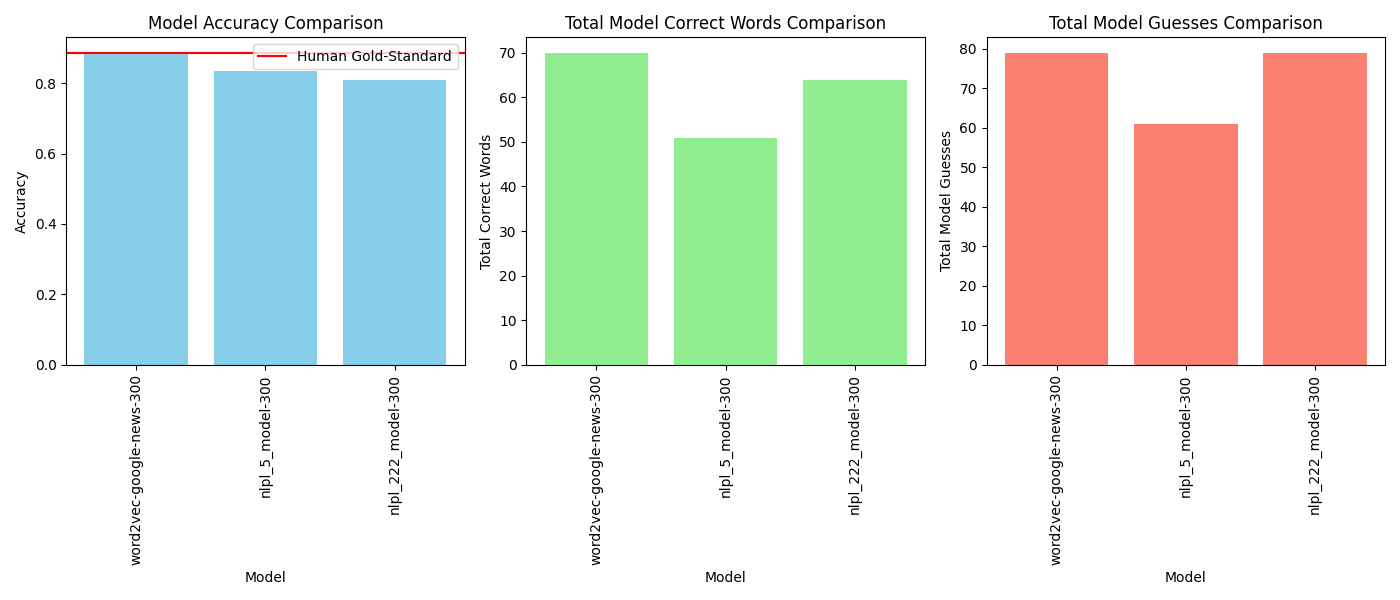
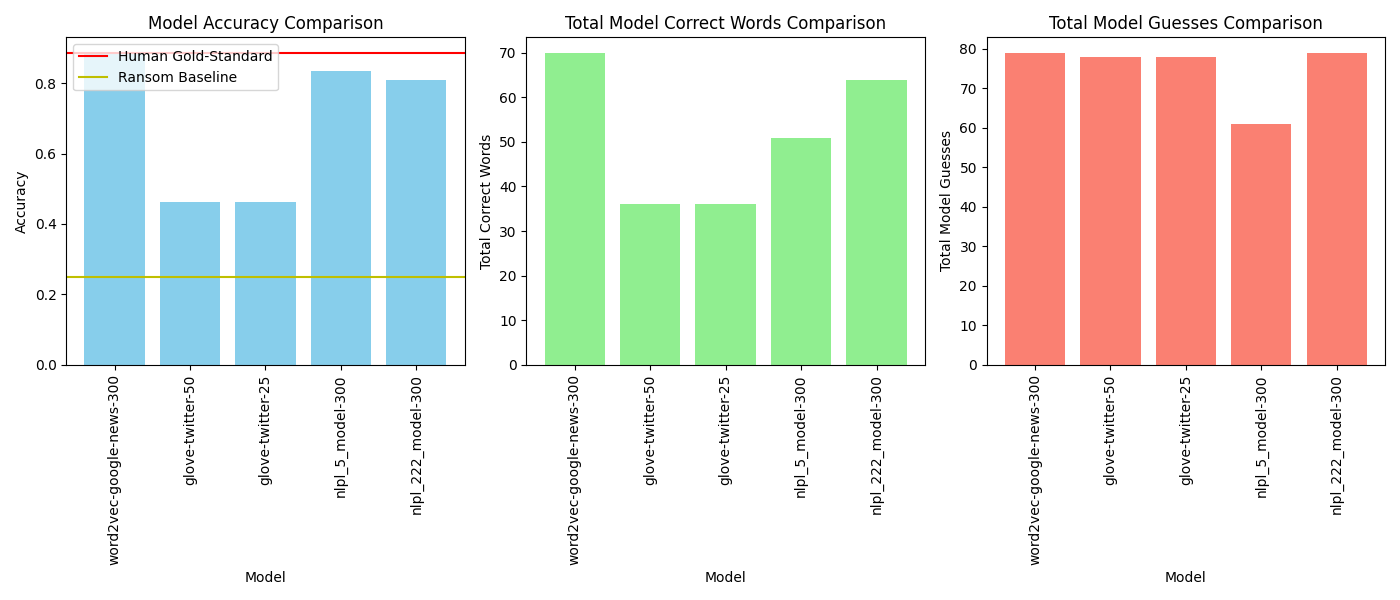
Adding Two Glove Models

diff --git a/word_embeddings.py b/word_embeddings.py
@@ -35,8 +35,8 @@ models = {
     "word2vec-google-news-300": None, 
     # "glove-wiki-gigaword-300": None,  # trained on Wikipedia + Gigaword.
     # "fasttext-wiki-news-subwords-300": None,  # trained on Common Crawl.
-    # "glove-twitter-50": None,  # trained on a dataset composed of tweets. 
-    # "glove-twitter-25": None  # trained on a dataset composed of tweets. 
+    "glove-twitter-50": None,  # trained on a dataset composed of tweets. 
+    "glove-twitter-25": None  # trained on a dataset composed of tweets. 
 }
 
 for model_name in models.keys():
@@ -71,6 +71,7 @@ for model_name, model in models.items():
       question_word = entry["question"]
       choices = entry["choices"]
       correct_answer_word = entry["answer"]
+      
       label = "guess"
       similarities = {}
 
@@ -128,6 +129,10 @@ plt.xticks(rotation=90)
 
 # Adding a horizontal line for the Human Gold-Standard at 88.5%
 plt.axhline(y=0.885, color='r', linestyle='-', label='Human Gold-Standard')
+plt.legend()
+
+# Adding a horizontal line for the Human Gold-Standard at 88.5%
+plt.axhline(y=0.25, color='y', linestyle='-', label='Ransom Baseline')
 plt.legend()
 
 # Total Model Guesses Bar Chart
